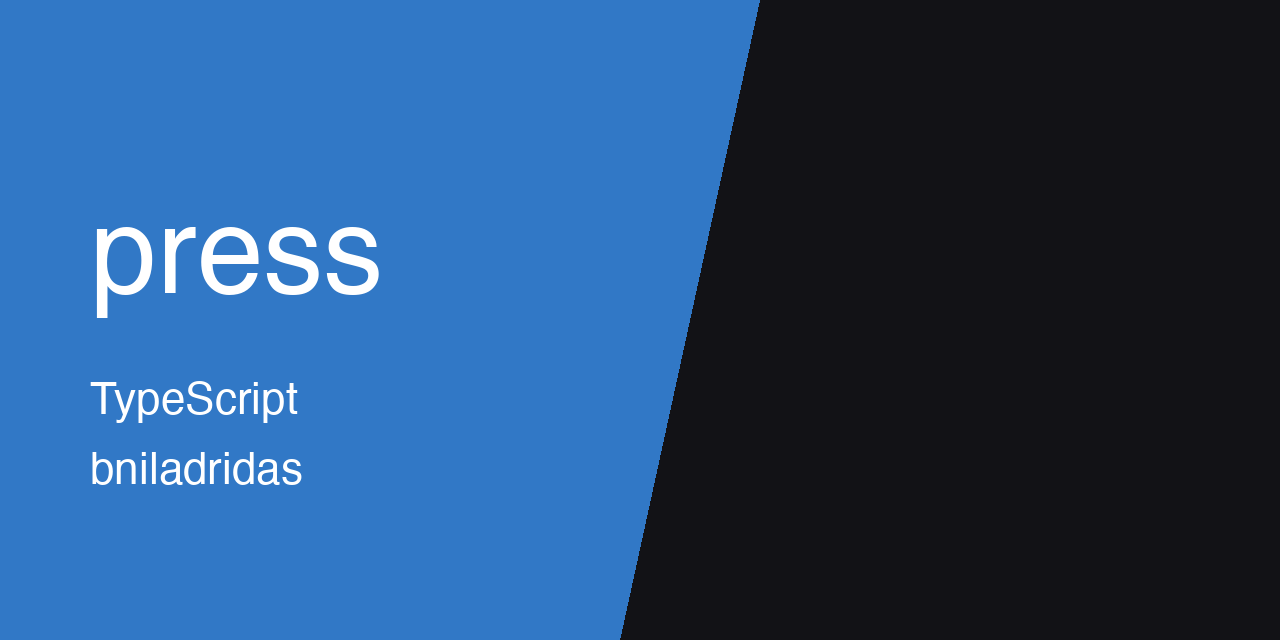
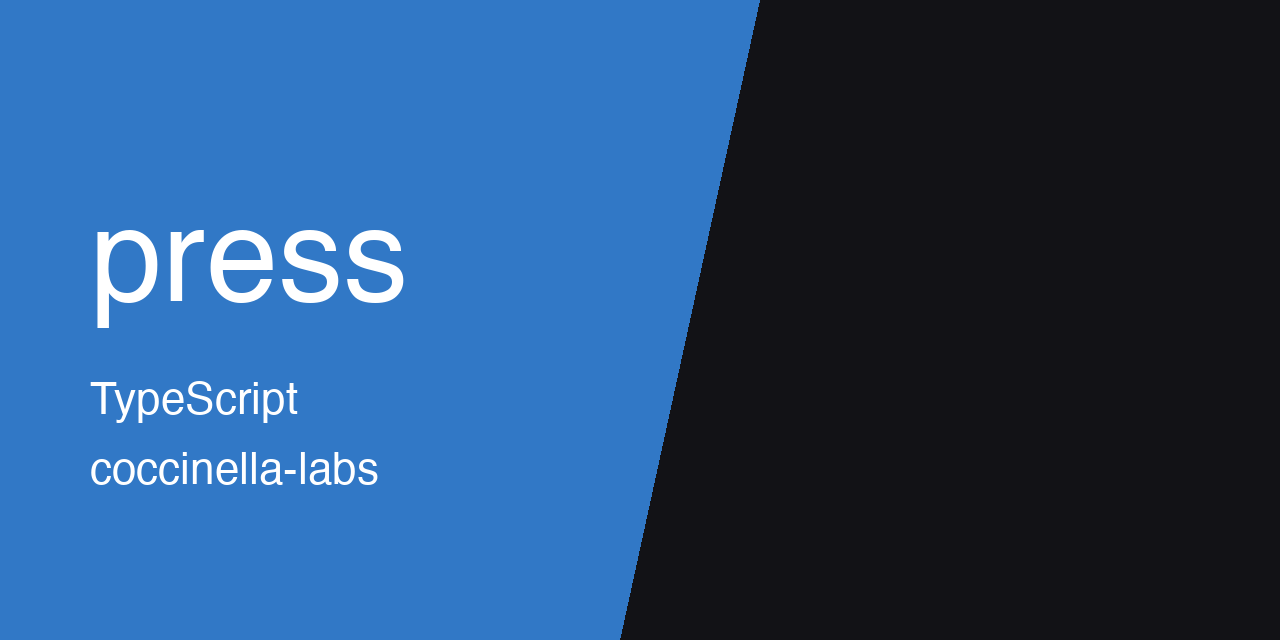
[docs] move thumbnail to coccinella-labs

Changed region(s): [[0.0625, 0.3438, 0.3125, 0.5312], [0.0625, 0.6875, 0.3125, 0.7812]]

diff --git a/README.md b/README.md
@@ -1,4 +1,8 @@
 <p align="center">
+  <img src="https://raw.githubusercontent.com/Coccinella-Labs/press/main/.github/assets/thumbnail.png" alt="press" width="100%">
+</p>
+
+<p align="center">
   <img src="https://raw.githubusercontent.com/bniladridas/press/main/.github/assets/thumbnail.png" alt="press" width="100%">
 </p>
 
